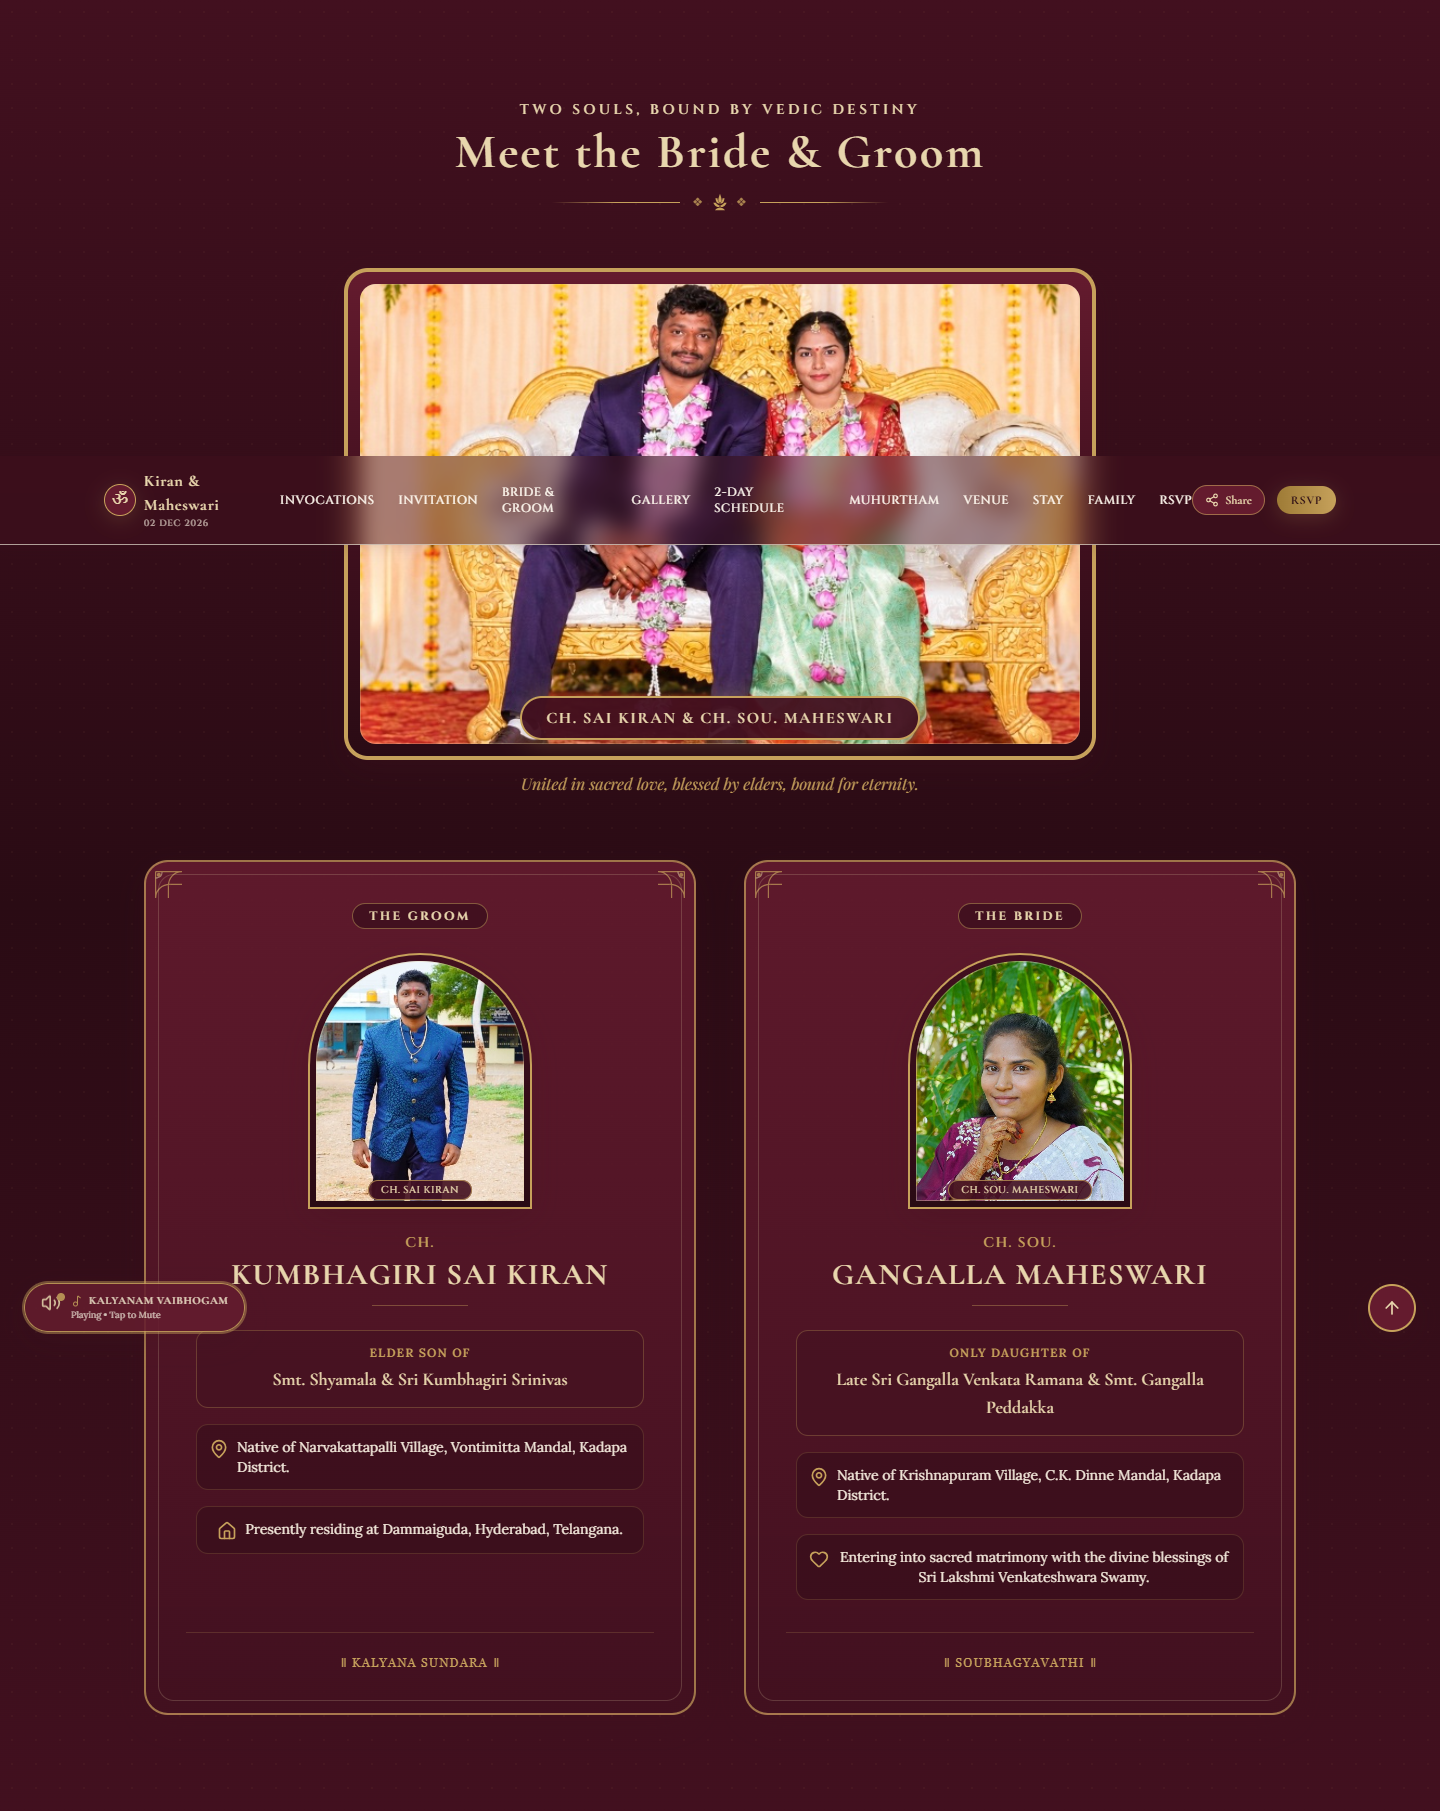
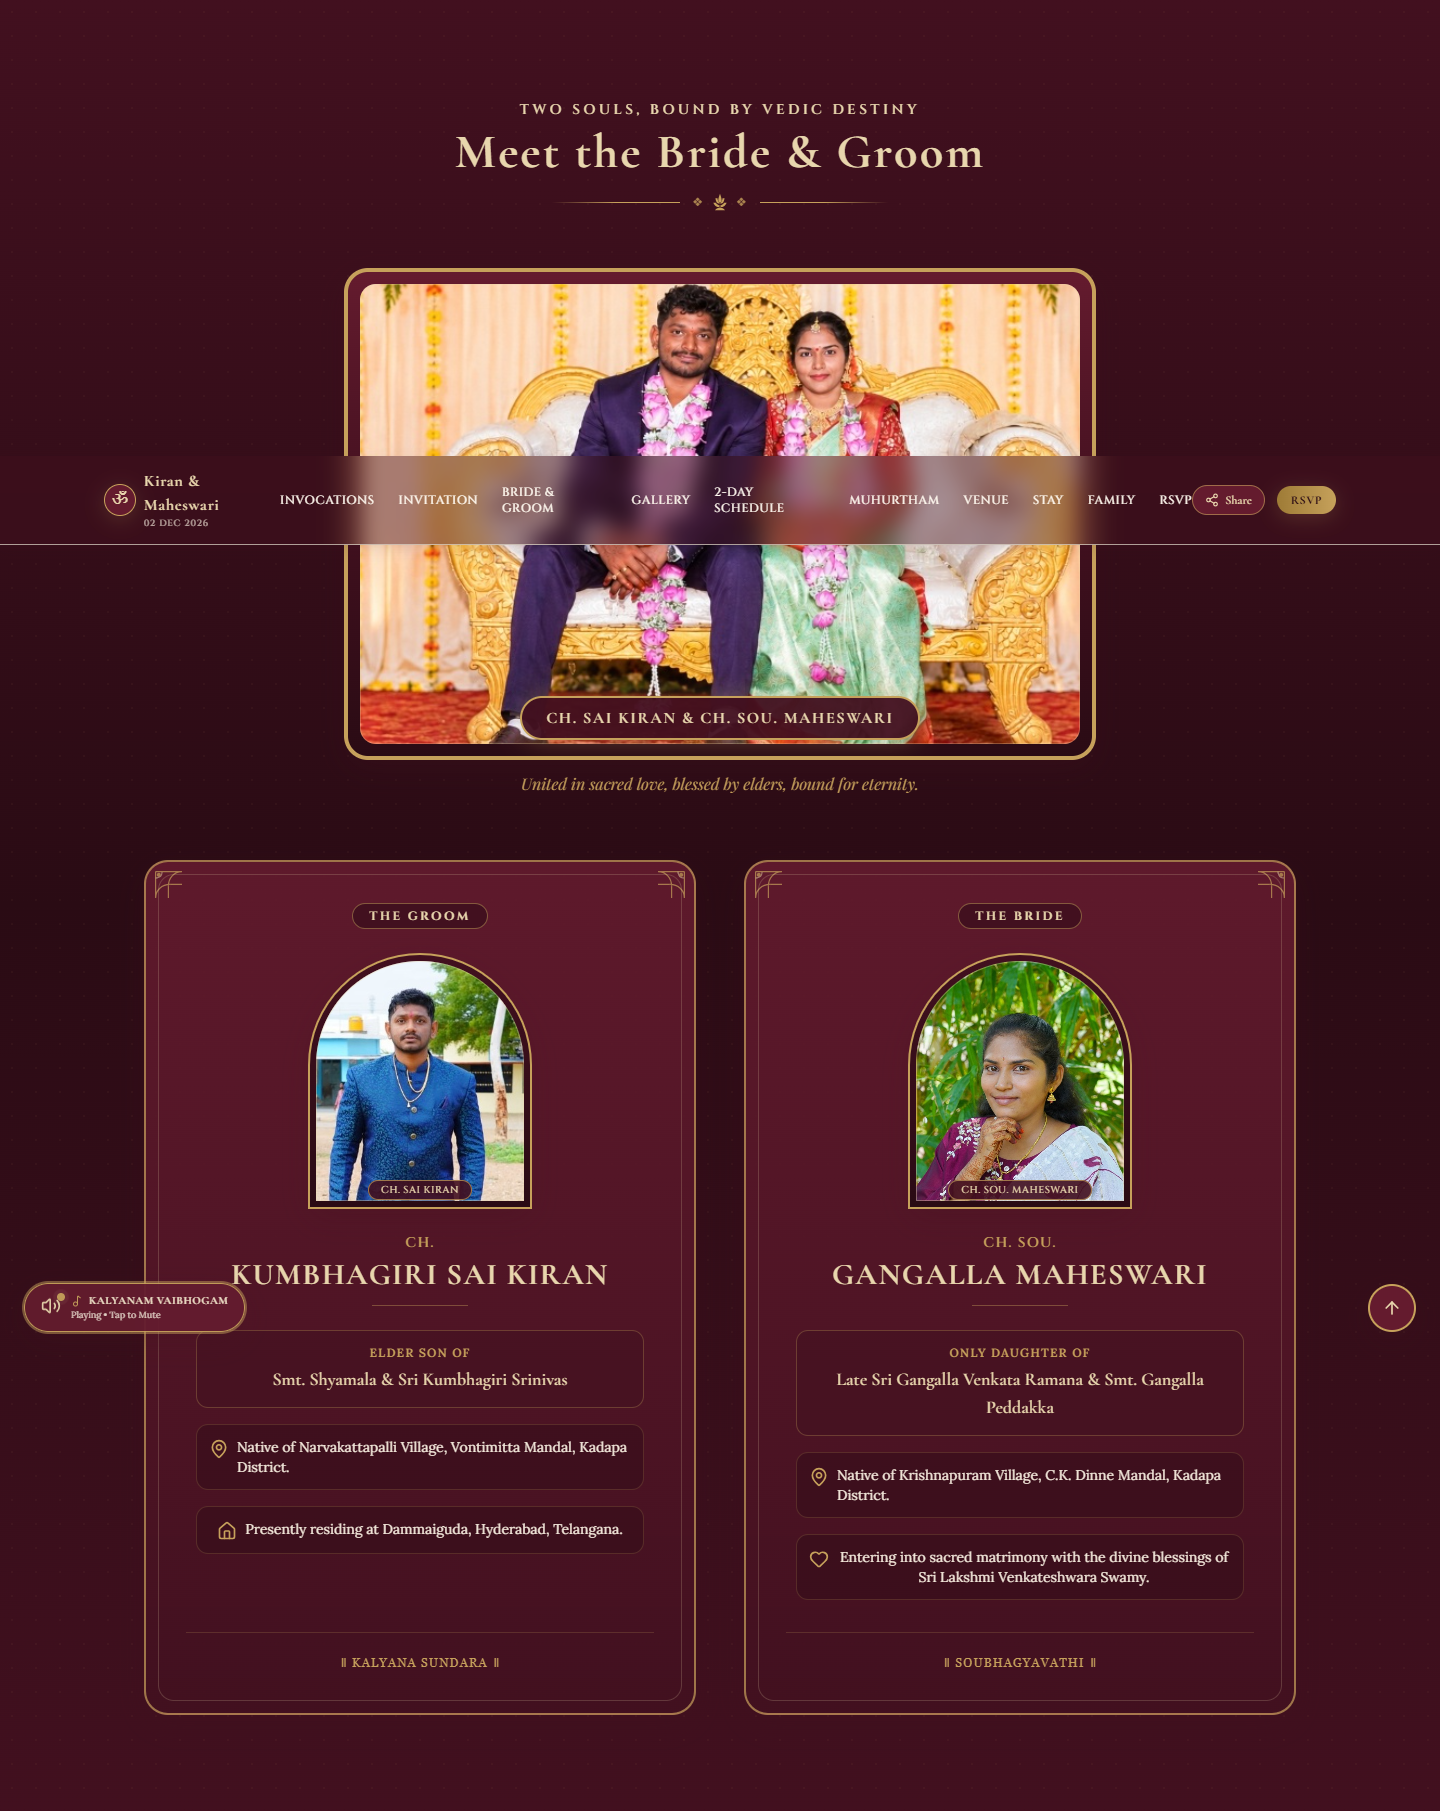
fix: close-up groom portrait framing in couple card and revert gallery to 11 photos

Changed region(s): [[0.2188, 0.5257, 0.375, 0.6803]]

diff --git a/src/components/PhotoGallery.tsx b/src/components/PhotoGallery.tsx
@@ -21,7 +21,7 @@ export interface GalleryPhoto {
   titleTe: string;
   subtitle: string;
   aspect: "portrait" | "landscape";
-  category: "together" | "groom" | "bride" | "scenic";
+  category: "together" | "groom" | "scenic";
 }
 
 export const GALLERY_PHOTOS: GalleryPhoto[] = [
@@ -134,16 +134,6 @@ export const GALLERY_PHOTOS: GalleryPhoto[] = [
     subtitle: "Together on the wide open road against majestic hills, ready for life's grand journey.",
     aspect: "landscape",
     category: "scenic",
-  },
-  {
-    id: "photo-12",
-    src: "/images/gallery/photo-12.webp",
-    srcJpg: "/images/gallery/photo-12.jpg",
-    titleEn: "The Radiant Bride",
-    titleTe: "సౌభాగ్యవతి పెళ్లికూతురు",
-    subtitle: "Ch. Sou. Gangalla Maheswari in serene grace, adorned in traditional ethnic beauty.",
-    aspect: "portrait",
-    category: "bride",
   },
 ];
 
@@ -282,7 +272,7 @@ export function PhotoGallery() {
                   : "bg-[#641B2E]/60 text-cream-warm border border-gold-antique/40 hover:bg-[#641B2E] hover:text-gold-champagne"
               }`}
             >
-              Royal Portraits ({GALLERY_PHOTOS.filter(p => p.aspect === "portrait").length})
+              Royal Portraits (3)
             </button>
           </div>
         </div>

diff --git a/src/components/CoupleProfiles.tsx b/src/components/CoupleProfiles.tsx
@@ -69,7 +69,7 @@ export function CoupleProfiles() {
                     <img
                       src={groom.image}
                       alt={groom.name}
-                      className="w-full h-full object-cover rounded-t-full group-hover:scale-105 transition-transform duration-500 filter contrast-105"
+                      className="w-full h-full object-cover object-[center_20%] rounded-t-full group-hover:scale-105 transition-transform duration-500 filter contrast-105"
                     />
                     <div className="absolute bottom-2 left-0 right-0 z-20 text-center">
                       <span className="px-3 py-0.5 rounded-full bg-[#42101F]/90 border border-gold-antique/70 font-ceremonial text-[10px] text-gold-champagne tracking-wider uppercase">

diff --git a/test-render.js b/test-render.js
@@ -170,9 +170,7 @@ async function testWebsite() {
     "Divine Harmony",
     "దివ్య బంధం",
     "Playful Whispers",
-    "The Royal Groom",
-    "The Radiant Bride",
-    "సౌభాగ్యవతి పెళ్లికూతురు"
+    "The Royal Groom"
   ];
 
   const subbaIdx = pageContent.indexOf("Sri Devara Subbarayudu");
